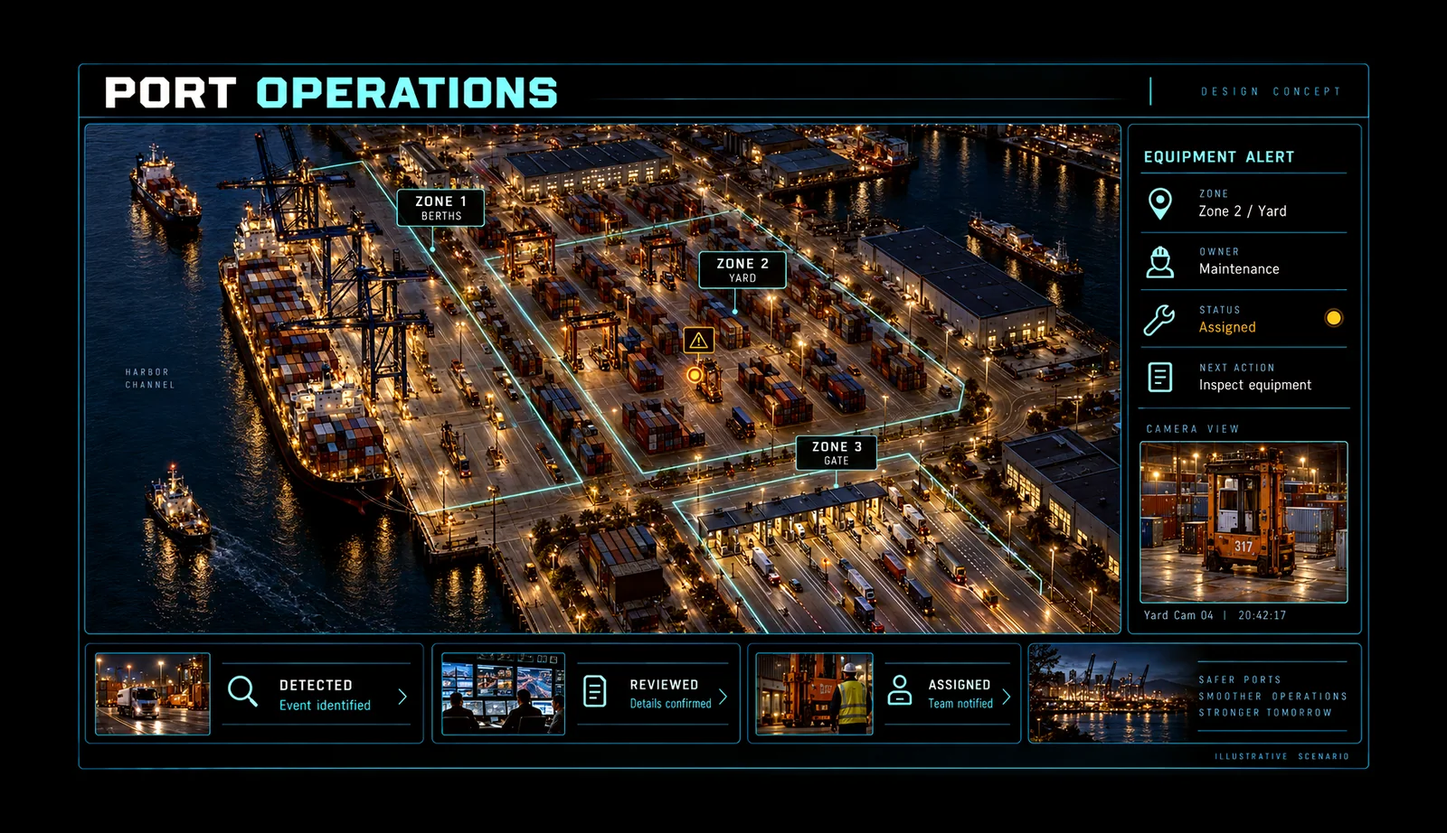
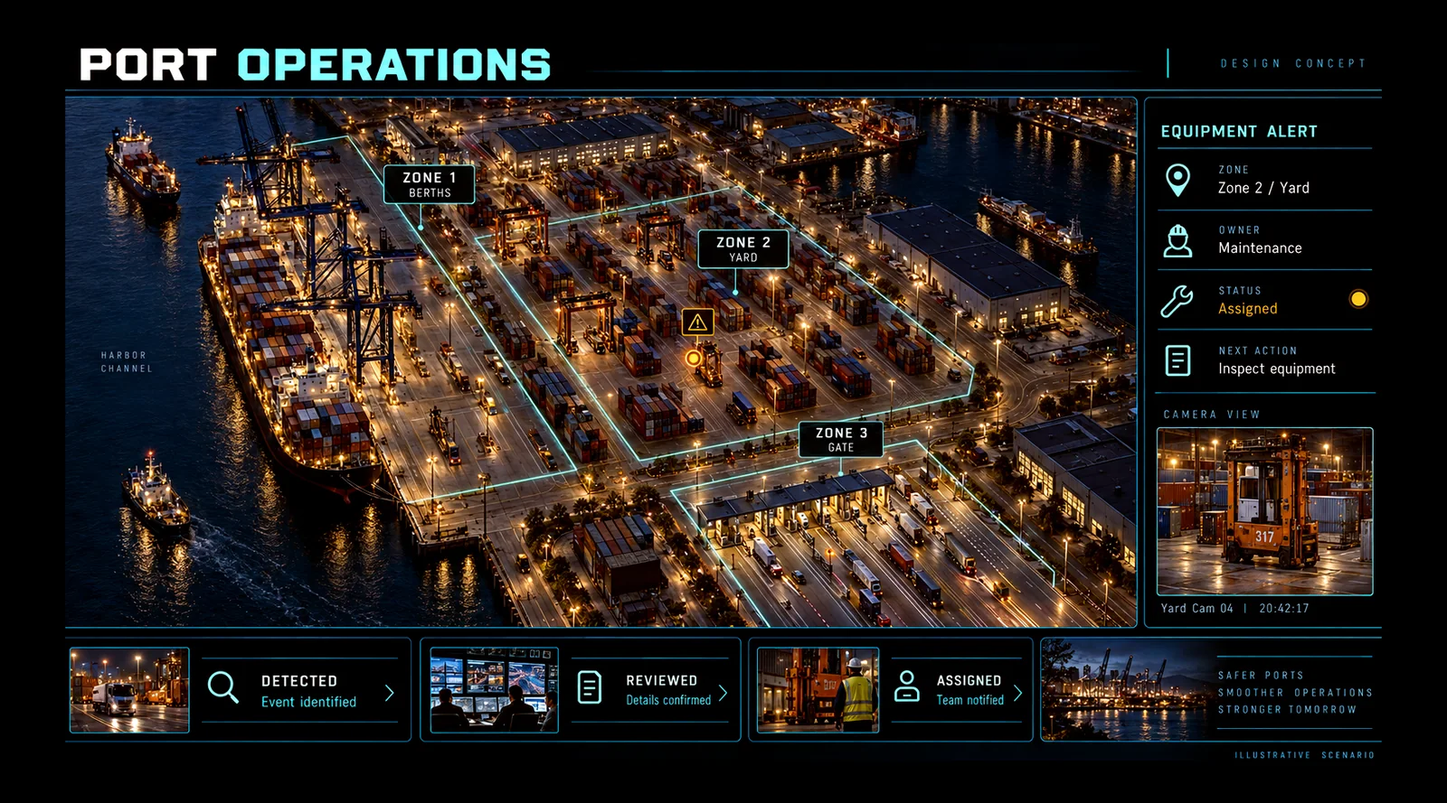
Situational Awareness: crop the screen bezels, deeper feathered blend into the background, hero 20% larger
Claude-Session: https://claude.ai/code/session_01Um7rR1VGA8PdkD5HN66tjn

diff --git a/pages/cc-situational-awareness.html b/pages/cc-situational-awareness.html
@@ -28,7 +28,7 @@
 <link rel="stylesheet" href="../styles-sections.css?v=20260922a">
 <link rel="stylesheet" href="../animations.css?v=20260922a">
 <link rel="stylesheet" href="../megamenu.css?v=20260922a">
-<link rel="stylesheet" href="../styles-situational-awareness.css?v=20260926a">
+<link rel="stylesheet" href="../styles-situational-awareness.css?v=20260927a">
 <link rel="stylesheet" href="_page.css?v=20260922a">
 <link rel="stylesheet" href="_casestudy.css?v=20260922a">
 <script type="application/ld+json">{"@context":"https://schema.org","@graph":[{"@type":"BreadcrumbList","itemListElement":[{"@type":"ListItem","position":1,"name":"Home","item":"https://innovent.io/"},{"@type":"ListItem","position":2,"name":"Command & Control","item":"https://innovent.io/pages/command-control.html"},{"@type":"ListItem","position":3,"name":"Situational Awareness — Command & Control","item":"https://innovent.io/pages/cc-situational-awareness.html"}]},{"@type":"WebPage","@id":"https://innovent.io/pages/cc-situational-awareness.html#page","url":"https://innovent.io/pages/cc-situational-awareness.html","name":"Situational Awareness — Command & Control","description":"Innfini creates a unified geo-temporal operating picture across every real-time data source. Incidents, sensors, cameras, assets.","isPartOf":{"@id":"https://innovent.io/#site"},"publisher":{"@id":"https://innovent.io/#org"}}]}</script>
@@ -70,23 +70,23 @@
         </div>
       </div>
       <div class="sa__motion sa__motion--img" aria-hidden="true">
-        <div class="ci-img ci-img--hero" aria-hidden="true"><div class="ci-img__box" style="--ar:1600 / 922"><img src="../assets/product/cc-sa-hero.webp?v=20260926a" alt="" loading="lazy" decoding="async" width="1600" height="922">
-          <span class="ov ov-ring" style="left:21.48%;top:36.78%;width:2.71%;--c:#fb923c;animation-delay:0s"></span>
-            <span class="ov ov-ring" style="left:21.48%;top:36.78%;width:2.71%;--c:#fb923c;animation-delay:1.3s"></span>
-            <span class="ov ov-glow" style="left:19.31%;top:28.79%;width:10.03%;height:4.23%;animation:g-hero-2 9s ease-in-out infinite"></span>
-            <span class="ov ov-area" style="left:26.36%;top:33.02%;width:10.85%;height:13.17%;--c:#22d3ee"></span>
-            <span class="ov ov-area" style="left:42.62%;top:37.72%;width:11.93%;height:11.29%;--c:#22d3ee"></span>
-            <span class="ov ov-area" style="left:74.08%;top:56.54%;width:10.85%;height:13.17%;--c:#22d3ee"></span>
+        <div class="ci-img ci-img--hero" aria-hidden="true"><div class="ci-img__box" style="--ar:1600 / 891"><img src="../assets/product/cc-sa-hero.webp?v=20260927a" alt="" loading="lazy" decoding="async" width="1600" height="891">
+          <span class="ov ov-ring" style="left:18.62%;top:34.94%;width:2.98%;--c:#fb923c;animation-delay:0s"></span>
+            <span class="ov ov-ring" style="left:18.62%;top:34.94%;width:2.98%;--c:#fb923c;animation-delay:1.3s"></span>
+            <span class="ov ov-glow" style="left:16.23%;top:25.83%;width:11.04%;height:4.82%;animation:g-hero-2 9s ease-in-out infinite"></span>
+            <span class="ov ov-area" style="left:23.99%;top:30.65%;width:11.93%;height:15.01%;--c:#22d3ee"></span>
+            <span class="ov ov-area" style="left:41.89%;top:36.01%;width:13.13%;height:12.86%;--c:#22d3ee"></span>
+            <span class="ov ov-area" style="left:76.49%;top:57.45%;width:11.93%;height:15.01%;--c:#22d3ee"></span>
             <span class="ov ov-pkt" style="--c:#34d399;animation:p-hero-6 9s linear infinite;animation-delay:0s"></span>
             <span class="ov ov-pkt" style="--c:#22d3ee;animation:p-hero-7 9s linear infinite;animation-delay:3s"></span>
-            <span class="ov ov-dot" style="left:91.97%;top:25.96%;--c:#34d399;animation-delay:0s"></span>
-            <span class="ov ov-dot" style="left:91.97%;top:34.15%;--c:#34d399;animation-delay:0.3s"></span>
-            <span class="ov ov-dot" style="left:91.97%;top:42.43%;--c:#34d399;animation-delay:0.6s"></span>
-            <span class="ov ov-dot" style="left:91.97%;top:50.71%;--c:#34d399;animation-delay:0.9s"></span>
-            <span class="ov ov-scan" style="left:6.29%;top:77.23%;width:10.58%;height:11.29%;--T:9s;animation-delay:0s"></span>
-            <span class="ov ov-scan" style="left:32.59%;top:77.23%;width:10.58%;height:11.29%;--T:9s;animation-delay:1.5s"></span>
-            <span class="ov ov-scan" style="left:58.62%;top:77.23%;width:9.49%;height:11.29%;--T:9s;animation-delay:3s"></span>
-            <span class="ov ov-glow" style="left:71.1%;top:78.17%;width:10.57%;height:10.35%;animation:g-hero-15 9s ease-in-out infinite"></span>
+            <span class="ov ov-dot" style="left:96.18%;top:22.62%;--c:#34d399;animation-delay:0s"></span>
+            <span class="ov ov-dot" style="left:96.18%;top:31.94%;--c:#34d399;animation-delay:0.3s"></span>
+            <span class="ov ov-dot" style="left:96.18%;top:41.37%;--c:#34d399;animation-delay:0.6s"></span>
+            <span class="ov ov-dot" style="left:96.18%;top:50.8%;--c:#34d399;animation-delay:0.9s"></span>
+            <span class="ov ov-scan" style="left:1.91%;top:81.03%;width:11.63%;height:12.86%;--T:9s;animation-delay:0s"></span>
+            <span class="ov ov-scan" style="left:30.85%;top:81.03%;width:11.63%;height:12.86%;--T:9s;animation-delay:1.5s"></span>
+            <span class="ov ov-scan" style="left:59.49%;top:81.03%;width:10.44%;height:12.86%;--T:9s;animation-delay:3s"></span>
+            <span class="ov ov-glow" style="left:73.21%;top:82.1%;width:11.63%;height:11.79%;animation:g-hero-15 9s ease-in-out infinite"></span>
         </div></div>
       </div>
     </div>
@@ -99,22 +99,22 @@
     </div>
     <div class="sa-rows">
       <div class="sa-row">
-        <div class="sa-row__vis"><div class="ci-img ci-img--cop" aria-hidden="true"><div class="ci-img__box" style="--ar:1600 / 922"><img src="../assets/product/cc-sa-cop.webp?v=20260926a" alt="" loading="lazy" decoding="async" width="1600" height="922">
-          <span class="ov ov-ring" style="left:23.75%;top:30.39%;width:2.49%;--c:#fb923c;animation-delay:0s"></span>
-            <span class="ov ov-ring" style="left:45.88%;top:48.54%;width:2.49%;--c:#fb923c;animation-delay:0.9s"></span>
-            <span class="ov ov-ring" style="left:66.21%;top:51.36%;width:2.49%;--c:#fb923c;animation-delay:1.8s"></span>
-            <span class="ov ov-area" style="left:20.93%;top:33.02%;width:10.85%;height:11.29%;--c:#22d3ee"></span>
-            <span class="ov ov-area" style="left:42.62%;top:45.25%;width:9.76%;height:9.41%;--c:#22d3ee"></span>
-            <span class="ov ov-area" style="left:62.69%;top:47.13%;width:8.13%;height:9.41%;--c:#22d3ee"></span>
+        <div class="sa-row__vis"><div class="ci-img ci-img--cop" aria-hidden="true"><div class="ci-img__box" style="--ar:1600 / 889"><img src="../assets/product/cc-sa-cop.webp?v=20260927a" alt="" loading="lazy" decoding="async" width="1600" height="889">
+          <span class="ov ov-ring" style="left:22.69%;top:28.83%;width:2.6%;--c:#fb923c;animation-delay:0s"></span>
+            <span class="ov ov-ring" style="left:45.71%;top:48.43%;width:2.6%;--c:#fb923c;animation-delay:0.9s"></span>
+            <span class="ov ov-ring" style="left:66.87%;top:51.47%;width:2.6%;--c:#fb923c;animation-delay:1.8s"></span>
+            <span class="ov ov-area" style="left:19.75%;top:31.68%;width:11.29%;height:12.18%;--c:#22d3ee"></span>
+            <span class="ov ov-area" style="left:42.33%;top:44.87%;width:10.16%;height:10.15%;--c:#22d3ee"></span>
+            <span class="ov ov-area" style="left:63.21%;top:46.9%;width:8.47%;height:10.15%;--c:#22d3ee"></span>
             <span class="ov ov-pkt" style="--c:#34d399;animation:p-cop-6 8s linear infinite;animation-delay:0s"></span>
             <span class="ov ov-pkt" style="--c:#22d3ee;animation:p-cop-7 8s linear infinite;animation-delay:2.5s"></span>
-            <span class="ov ov-glow" style="left:78.15%;top:23.14%;width:15.45%;height:13.17%;animation:g-cop-8 9s ease-in-out infinite"></span>
-            <span class="ov ov-glow" style="left:78.15%;top:37.72%;width:15.45%;height:13.17%;animation:g-cop-9 9s ease-in-out infinite"></span>
-            <span class="ov ov-glow" style="left:78.15%;top:52.3%;width:15.45%;height:13.18%;animation:g-cop-10 9s ease-in-out infinite"></span>
-            <span class="ov ov-flare" style="left:13.34%;top:87.39%;--c:#fcd34d;--i:0;--T:9s"></span>
-            <span class="ov ov-flare" style="left:42.62%;top:87.39%;--c:#fcd34d;--i:1;--T:9s"></span>
-            <span class="ov ov-flare" style="left:71.37%;top:87.39%;--c:#fcd34d;--i:2;--T:9s"></span>
-            <span class="ov ov-ring" style="left:89.97%;top:87.39%;width:2.17%;--c:#22d3ee;animation-delay:0.5s"></span>
+            <span class="ov ov-glow" style="left:79.29%;top:21.02%;width:16.08%;height:14.21%;animation:g-cop-8 9s ease-in-out infinite"></span>
+            <span class="ov ov-glow" style="left:79.29%;top:36.75%;width:16.08%;height:14.21%;animation:g-cop-9 9s ease-in-out infinite"></span>
+            <span class="ov ov-glow" style="left:79.29%;top:52.49%;width:16.08%;height:14.21%;animation:g-cop-10 9s ease-in-out infinite"></span>
+            <span class="ov ov-flare" style="left:11.85%;top:90.36%;--c:#fcd34d;--i:0;--T:9s"></span>
+            <span class="ov ov-flare" style="left:42.33%;top:90.36%;--c:#fcd34d;--i:1;--T:9s"></span>
+            <span class="ov ov-flare" style="left:72.23%;top:90.36%;--c:#fcd34d;--i:2;--T:9s"></span>
+            <span class="ov ov-ring" style="left:91.59%;top:90.36%;width:2.26%;--c:#22d3ee;animation-delay:0.5s"></span>
         </div></div></div>
         <div class="sa-row__copy">
           <div class="sa-row__kicker">01 · Common operating picture</div>
@@ -124,22 +124,22 @@
         </div>
       </div>
       <div class="sa-row sa-row--flip">
-        <div class="sa-row__vis"><div class="ci-img ci-img--response" aria-hidden="true"><div class="ci-img__box" style="--ar:1600 / 922"><img src="../assets/product/cc-sa-response.webp?v=20260926a" alt="" loading="lazy" decoding="async" width="1600" height="922">
-          <span class="ov ov-ring" style="left:24.62%;top:43.56%;width:2.71%;--c:#fb923c;animation-delay:0s"></span>
-            <span class="ov ov-ring" style="left:24.62%;top:43.56%;width:2.71%;--c:#fb923c;animation-delay:1.3s"></span>
-            <span class="ov ov-glow" style="left:19.85%;top:34.71%;width:10.19%;height:4.14%;animation:g-response-2 9s ease-in-out infinite"></span>
-            <span class="ov ov-area" style="left:24.19%;top:45.25%;width:9.76%;height:11.29%;--c:#fb7185"></span>
-            <span class="ov ov-area" style="left:35.03%;top:39.6%;width:8.68%;height:9.41%;--c:#22d3ee"></span>
+        <div class="sa-row__vis"><div class="ci-img ci-img--response" aria-hidden="true"><div class="ci-img__box" style="--ar:1600 / 889"><img src="../assets/product/cc-sa-response.webp?v=20260927a" alt="" loading="lazy" decoding="async" width="1600" height="889">
+          <span class="ov ov-ring" style="left:23.59%;top:43.05%;width:2.82%;--c:#fb923c;animation-delay:0s"></span>
+            <span class="ov ov-ring" style="left:23.59%;top:43.05%;width:2.82%;--c:#fb923c;animation-delay:1.3s"></span>
+            <span class="ov ov-glow" style="left:18.62%;top:33.5%;width:10.61%;height:4.47%;animation:g-response-2 9s ease-in-out infinite"></span>
+            <span class="ov ov-area" style="left:23.14%;top:44.87%;width:10.16%;height:12.18%;--c:#fb7185"></span>
+            <span class="ov ov-area" style="left:34.42%;top:38.78%;width:9.03%;height:10.15%;--c:#22d3ee"></span>
             <span class="ov ov-pkt" style="--c:#34d399;animation:p-response-5 8s linear infinite;animation-delay:0s"></span>
-            <span class="ov ov-ring" style="left:53.74%;top:26.9%;width:2.39%;--c:#22d3ee;animation-delay:0.4s"></span>
-            <span class="ov ov-dot" style="left:92.14%;top:24.55%;--c:#34d399;animation-delay:0s"></span>
-            <span class="ov ov-dot" style="left:92.14%;top:31.23%;--c:#34d399;animation-delay:0.3s"></span>
-            <span class="ov ov-dot" style="left:92.14%;top:37.91%;--c:#34d399;animation-delay:0.6s"></span>
-            <span class="ov ov-dot" style="left:92.14%;top:44.68%;--c:#fcd34d;animation-delay:0.9s"></span>
-            <span class="ov ov-scan" style="left:6.29%;top:78.17%;width:11.12%;height:10.82%;--T:9s;animation-delay:0s"></span>
-            <span class="ov ov-scan" style="left:35.57%;top:78.17%;width:11.12%;height:10.82%;--T:9s;animation-delay:1.5s"></span>
-            <span class="ov ov-scan" style="left:65.13%;top:78.17%;width:11.12%;height:10.82%;--T:9s;animation-delay:3s"></span>
-            <span class="ov ov-glow" style="left:78.15%;top:42.9%;width:15.45%;height:3.76%;animation:g-response-14 9s ease-in-out infinite"></span>
+            <span class="ov ov-ring" style="left:53.89%;top:25.08%;width:2.48%;--c:#22d3ee;animation-delay:0.4s"></span>
+            <span class="ov ov-dot" style="left:93.85%;top:22.54%;--c:#34d399;animation-delay:0s"></span>
+            <span class="ov ov-dot" style="left:93.85%;top:29.75%;--c:#34d399;animation-delay:0.3s"></span>
+            <span class="ov ov-dot" style="left:93.85%;top:36.95%;--c:#34d399;animation-delay:0.6s"></span>
+            <span class="ov ov-dot" style="left:93.85%;top:44.26%;--c:#fcd34d;animation-delay:0.9s"></span>
+            <span class="ov ov-scan" style="left:4.51%;top:80.41%;width:11.57%;height:11.67%;--T:9s;animation-delay:0s"></span>
+            <span class="ov ov-scan" style="left:34.99%;top:80.41%;width:11.57%;height:11.67%;--T:9s;animation-delay:1.5s"></span>
+            <span class="ov ov-scan" style="left:65.74%;top:80.41%;width:11.57%;height:11.67%;--T:9s;animation-delay:3s"></span>
+            <span class="ov ov-glow" style="left:79.29%;top:42.34%;width:16.08%;height:4.06%;animation:g-response-14 9s ease-in-out infinite"></span>
         </div></div></div>
         <div class="sa-row__copy">
           <div class="sa-row__kicker">02 · Coordinated response</div>
@@ -149,22 +149,22 @@
         </div>
       </div>
       <div class="sa-row">
-        <div class="sa-row__vis"><div class="ci-img ci-img--playback" aria-hidden="true"><div class="ci-img__box" style="--ar:1600 / 922"><img src="../assets/product/cc-sa-playback.webp?v=20260926a" alt="" loading="lazy" decoding="async" width="1600" height="922">
-          <span class="ov ov-ring" style="left:19.31%;top:39.79%;width:2.49%;--c:#fb923c;animation-delay:0s"></span>
-            <span class="ov ov-ring" style="left:19.31%;top:39.79%;width:2.49%;--c:#fb923c;animation-delay:1.3s"></span>
-            <span class="ov ov-glow" style="left:16.05%;top:33.96%;width:7.87%;height:2.82%;animation:g-playback-2 12s ease-in-out infinite"></span>
-            <span class="ov ov-ring" style="left:48.59%;top:39.79%;width:2.49%;--c:#fb923c;animation-delay:3.5s"></span>
+        <div class="sa-row__vis"><div class="ci-img ci-img--playback" aria-hidden="true"><div class="ci-img__box" style="--ar:1600 / 889"><img src="../assets/product/cc-sa-playback.webp?v=20260927a" alt="" loading="lazy" decoding="async" width="1600" height="889">
+          <span class="ov ov-ring" style="left:18.06%;top:38.98%;width:2.6%;--c:#fb923c;animation-delay:0s"></span>
+            <span class="ov ov-ring" style="left:18.06%;top:38.98%;width:2.6%;--c:#fb923c;animation-delay:1.3s"></span>
+            <span class="ov ov-glow" style="left:14.67%;top:32.69%;width:8.19%;height:3.05%;animation:g-playback-2 12s ease-in-out infinite"></span>
+            <span class="ov ov-ring" style="left:48.53%;top:38.98%;width:2.6%;--c:#fb923c;animation-delay:3.5s"></span>
             <span class="ov ov-pkt" style="--c:#34d399;animation:p-playback-4 12s linear infinite;animation-delay:4s"></span>
-            <span class="ov ov-ring" style="left:77.87%;top:39.79%;width:2.49%;--c:#34d399;animation-delay:8s"></span>
-            <span class="ov ov-glow" style="left:5.75%;top:17.03%;width:28.47%;height:2.82%;animation:g-playback-6 12s ease-in-out infinite"></span>
-            <span class="ov ov-glow" style="left:35.03%;top:17.03%;width:28.2%;height:2.82%;animation:g-playback-7 12s ease-in-out infinite"></span>
-            <span class="ov ov-glow" style="left:64.05%;top:17.03%;width:29.55%;height:2.82%;animation:g-playback-8 12s ease-in-out infinite"></span>
-            <span class="ov ov-flare" style="left:10.09%;top:80.71%;--c:#fcd34d;--i:0;--T:12s"></span>
-            <span class="ov ov-flare" style="left:36.01%;top:80.71%;--c:#22d3ee;--i:1;--T:12s"></span>
-            <span class="ov ov-flare" style="left:61.88%;top:80.71%;--c:#34d399;--i:2;--T:12s"></span>
-            <span class="ov ov-runx" style="top:80.71%;--c:#22d3ee;animation:x-playback-12 12s linear infinite"></span>
-            <span class="ov ov-scan" style="left:67.57%;top:77.05%;width:12.2%;height:11.0%;--T:12s;animation-delay:4s"></span>
-            <span class="ov ov-glow" style="left:80.59%;top:81.0%;width:13.01%;height:4.7%;animation:g-playback-14 12s ease-in-out infinite"></span>
+            <span class="ov ov-ring" style="left:79.01%;top:38.98%;width:2.6%;--c:#34d399;animation-delay:8s"></span>
+            <span class="ov ov-glow" style="left:3.95%;top:14.42%;width:29.63%;height:3.04%;animation:g-playback-6 12s ease-in-out infinite"></span>
+            <span class="ov ov-glow" style="left:34.42%;top:14.42%;width:29.35%;height:3.04%;animation:g-playback-7 12s ease-in-out infinite"></span>
+            <span class="ov ov-glow" style="left:64.62%;top:14.42%;width:30.75%;height:3.04%;animation:g-playback-8 12s ease-in-out infinite"></span>
+            <span class="ov ov-flare" style="left:8.47%;top:83.15%;--c:#fcd34d;--i:0;--T:12s"></span>
+            <span class="ov ov-flare" style="left:35.44%;top:83.15%;--c:#22d3ee;--i:1;--T:12s"></span>
+            <span class="ov ov-flare" style="left:62.36%;top:83.15%;--c:#34d399;--i:2;--T:12s"></span>
+            <span class="ov ov-runx" style="top:83.15%;--c:#22d3ee;animation:x-playback-12 12s linear infinite"></span>
+            <span class="ov ov-scan" style="left:68.28%;top:79.19%;width:12.7%;height:11.88%;--T:12s;animation-delay:4s"></span>
+            <span class="ov ov-glow" style="left:81.83%;top:83.45%;width:13.54%;height:5.08%;animation:g-playback-14 12s ease-in-out infinite"></span>
         </div></div></div>
         <div class="sa-row__copy">
           <div class="sa-row__kicker">03 · Event playback</div>
@@ -174,20 +174,20 @@
         </div>
       </div>
       <div class="sa-row sa-row--flip">
-        <div class="sa-row__vis"><div class="ci-img ci-img--port" aria-hidden="true"><div class="ci-img__box" style="--ar:1600 / 922"><img src="../assets/product/cc-sa-port.webp?v=20260926a" alt="" loading="lazy" decoding="async" width="1600" height="922">
-          <span class="ov ov-ring" style="left:48.05%;top:45.25%;width:2.6%;--c:#fb923c;animation-delay:0s"></span>
-            <span class="ov ov-ring" style="left:48.05%;top:45.25%;width:2.6%;--c:#fb923c;animation-delay:1.3s"></span>
-            <span class="ov ov-glow" style="left:46.96%;top:39.13%;width:2.44%;height:3.3%;animation:g-port-2 9s ease-in-out infinite"></span>
-            <span class="ov ov-area" style="left:45.88%;top:47.13%;width:8.68%;height:11.29%;--c:#fcd34d"></span>
+        <div class="sa-row__vis"><div class="ci-img ci-img--port" aria-hidden="true"><div class="ci-img__box" style="--ar:1600 / 889"><img src="../assets/product/cc-sa-port.webp?v=20260927a" alt="" loading="lazy" decoding="async" width="1600" height="889">
+          <span class="ov ov-ring" style="left:47.97%;top:44.87%;width:2.71%;--c:#fb923c;animation-delay:0s"></span>
+            <span class="ov ov-ring" style="left:47.97%;top:44.87%;width:2.71%;--c:#fb923c;animation-delay:1.3s"></span>
+            <span class="ov ov-glow" style="left:46.84%;top:38.27%;width:2.54%;height:3.56%;animation:g-port-2 9s ease-in-out infinite"></span>
+            <span class="ov ov-area" style="left:45.71%;top:46.9%;width:9.03%;height:12.18%;--c:#fcd34d"></span>
             <span class="ov ov-pkt" style="--c:#22d3ee;animation:p-port-4 9s linear infinite;animation-delay:0s"></span>
             <span class="ov ov-pkt" style="--c:#22d3ee;animation:p-port-5 9s linear infinite;animation-delay:2.5s"></span>
             <span class="ov ov-pkt" style="--c:#22d3ee;animation:p-port-6 9s linear infinite;animation-delay:4.5s"></span>
-            <span class="ov ov-dot" style="left:91.97%;top:38.19%;--c:#fcd34d;animation-delay:0s"></span>
-            <span class="ov ov-scan" style="left:78.96%;top:53.25%;width:14.1%;height:19.28%;--T:9s;animation-delay:1s"></span>
-            <span class="ov ov-scan" style="left:6.29%;top:78.17%;width:8.68%;height:9.88%;--T:9s;animation-delay:0s"></span>
-            <span class="ov ov-scan" style="left:30.15%;top:78.17%;width:8.95%;height:9.88%;--T:9s;animation-delay:1.5s"></span>
-            <span class="ov ov-scan" style="left:51.84%;top:78.17%;width:8.68%;height:9.88%;--T:9s;animation-delay:3s"></span>
-            <span class="ov ov-glow" style="left:71.37%;top:78.17%;width:22.23%;height:10.35%;animation:g-port-12 9s ease-in-out infinite"></span>
+            <span class="ov ov-dot" style="left:93.68%;top:37.26%;--c:#fcd34d;animation-delay:0s"></span>
+            <span class="ov ov-scan" style="left:80.14%;top:53.5%;width:14.67%;height:20.81%;--T:9s;animation-delay:1s"></span>
+            <span class="ov ov-scan" style="left:4.51%;top:80.41%;width:9.03%;height:10.66%;--T:9s;animation-delay:0s"></span>
+            <span class="ov ov-scan" style="left:29.35%;top:80.41%;width:9.31%;height:10.66%;--T:9s;animation-delay:1.5s"></span>
+            <span class="ov ov-scan" style="left:51.92%;top:80.41%;width:9.03%;height:10.66%;--T:9s;animation-delay:3s"></span>
+            <span class="ov ov-glow" style="left:72.23%;top:80.41%;width:23.14%;height:11.16%;animation:g-port-12 9s ease-in-out infinite"></span>
         </div></div></div>
         <div class="sa-row__copy">
           <div class="sa-row__kicker">04 · Port operations</div>

diff --git a/styles-situational-awareness.css b/styles-situational-awareness.css
@@ -7,7 +7,7 @@
 .sa .container { position: relative; z-index: 1; }
 
 /* Hero */
-.sa__hero { display: grid; grid-template-columns: 1fr 1.2fr; gap: 56px; align-items: center; margin-bottom: 96px; }
+.sa__hero { display: grid; grid-template-columns: 1fr 1.32fr; gap: 44px; align-items: center; margin-bottom: 96px; }
 .sa__copy h2.sa__title, .sa__copy h1.sa__title{ font-family: var(--font-display); font-size: clamp(36px, 4.2vw, 56px); line-height: 1.04; letter-spacing: -0.025em; color: var(--ink-100); margin: 18px 0 22px; }
 .sa__lead { font-size: 17px; line-height: 1.6; color: var(--ink-70); max-width: 560px; margin-bottom: 32px; }
 .sa__lead strong { color: var(--ink-100); font-weight: 600; }
@@ -160,13 +160,19 @@
 
 /* ── Product images (keyed + feathered) with live overlays ── */
 .sa__motion--img { padding: 0; display: flex; align-items: center; }
+.sa__motion--img .ci-img { justify-content: flex-end; }
+.sa__motion--img .ci-img__box { max-width: none; width: 108%; margin-right: -6%; }
+@media (max-width: 1100px) { .sa__motion--img .ci-img__box { width: 100%; margin-right: 0; } }
+@media (max-width: 980px) { .sa__motion--img .ci-img__box { max-width: 720px; margin: 0 auto; } }
 .ci-img { display: flex; align-items: center; justify-content: center; padding: 0; min-height: 0; width: 100%; }
 .ci-img__box { position: relative; width: 100%; max-width: 720px; aspect-ratio: var(--ar, 16 / 9); }
-.ci-img__box img { display: block; width: 100%; height: 100%; object-fit: cover; mix-blend-mode: lighten; filter: saturate(0.96) contrast(1.02);
-  -webkit-mask-image: linear-gradient(to right, transparent, rgba(0,0,0,0.3) 3%, #000 9%, #000 91%, rgba(0,0,0,0.3) 97%, transparent),
-                      linear-gradient(to bottom, transparent, rgba(0,0,0,0.3) 4%, #000 11%, #000 89%, rgba(0,0,0,0.3) 96%, transparent);
-          mask-image: linear-gradient(to right, transparent, rgba(0,0,0,0.3) 3%, #000 9%, #000 91%, rgba(0,0,0,0.3) 97%, transparent),
-                      linear-gradient(to bottom, transparent, rgba(0,0,0,0.3) 4%, #000 11%, #000 89%, rgba(0,0,0,0.3) 96%, transparent);
+.ci-img__box img { display: block; width: 100%; height: 100%; object-fit: cover; mix-blend-mode: lighten; filter: saturate(0.94) contrast(1.03);
+  -webkit-mask-image: linear-gradient(to right, transparent, rgba(0,0,0,0.22) 4%, #000 13%, #000 87%, rgba(0,0,0,0.22) 96%, transparent),
+                      linear-gradient(to bottom, transparent, rgba(0,0,0,0.22) 5%, #000 15%, #000 85%, rgba(0,0,0,0.22) 95%, transparent),
+                      radial-gradient(ellipse 78% 78% at 50% 50%, #000 55%, rgba(0,0,0,0.55) 82%, rgba(0,0,0,0.18) 100%);
+          mask-image: linear-gradient(to right, transparent, rgba(0,0,0,0.22) 4%, #000 13%, #000 87%, rgba(0,0,0,0.22) 96%, transparent),
+                      linear-gradient(to bottom, transparent, rgba(0,0,0,0.22) 5%, #000 15%, #000 85%, rgba(0,0,0,0.22) 95%, transparent),
+                      radial-gradient(ellipse 78% 78% at 50% 50%, #000 55%, rgba(0,0,0,0.55) 82%, rgba(0,0,0,0.18) 100%);
   -webkit-mask-composite: source-in; mask-composite: intersect; }
 .ci-img__box .ov { position: absolute; display: block; pointer-events: none; mix-blend-mode: screen; }
 .ov-dot { width: 1.6%; aspect-ratio: 1; border-radius: 50%; transform: translate(-50%,-50%); background: radial-gradient(circle, color-mix(in srgb, var(--c) 95%, transparent), transparent 70%); animation: ovDot 2.2s ease-in-out infinite; }
@@ -202,26 +208,26 @@
 }
 @media (prefers-reduced-motion: reduce) { .ci-img__box .ov { animation: none !important; opacity: .5; } .ov-pkt, .ov-ring, .ov-run, .ov-runx, .ov-row, .ov-flare, .ov-scan { display: none; } }
 @keyframes g-hero-2{0%,1.3%{box-shadow:0 0 0 0 transparent}7.3%{box-shadow:0 0 22px 3px color-mix(in srgb,#fcd34d 60%,transparent),inset 0 0 14px color-mix(in srgb,#fcd34d 30%,transparent)}15.3%,100%{box-shadow:0 0 0 0 transparent}}
-@keyframes p-hero-6{0%{left:35.03%;top:74.41%;opacity:0}4%{opacity:1}18.0%{left:48.05%;top:62.18%}32.0%{left:50.22%;top:53.72%}46.0%{left:59.44%;top:50.89%}60.0%{left:63.77%;top:60.3%}74.0%{left:70.28%;top:67.83%}88.0%{left:71.91%;top:70.65%}92%,100%{left:71.91%;top:70.65%;opacity:0}}
-@keyframes p-hero-7{0%{left:67.03%;top:66.89%;opacity:0}4%{opacity:1}46.0%{left:64.32%;top:54.66%}88.0%{left:58.89%;top:49.95%}92%,100%{left:58.89%;top:49.95%;opacity:0}}
+@keyframes p-hero-6{0%{left:33.53%;top:77.81%;opacity:0}4%{opacity:1}18.0%{left:47.85%;top:63.88%}32.0%{left:50.24%;top:54.23%}46.0%{left:60.38%;top:51.02%}60.0%{left:65.16%;top:61.74%}74.0%{left:72.32%;top:70.31%}88.0%{left:74.11%;top:73.53%}92%,100%{left:74.11%;top:73.53%;opacity:0}}
+@keyframes p-hero-7{0%{left:68.74%;top:69.24%;opacity:0}4%{opacity:1}46.0%{left:65.75%;top:55.31%}88.0%{left:59.79%;top:49.95%}92%,100%{left:59.79%;top:49.95%;opacity:0}}
 @keyframes g-hero-15{0%,53.6%{box-shadow:0 0 0 0 transparent}59.6%{box-shadow:0 0 22px 3px color-mix(in srgb,#34d399 60%,transparent),inset 0 0 14px color-mix(in srgb,#34d399 30%,transparent)}67.6%,100%{box-shadow:0 0 0 0 transparent}}
-@keyframes p-cop-6{0%{left:32.86%;top:73.47%;opacity:0}4%{opacity:1}25.0%{left:39.91%;top:65.95%}46.0%{left:48.05%;top:54.66%}67.0%{left:54.56%;top:46.19%}88.0%{left:58.89%;top:42.43%}92%,100%{left:58.89%;top:42.43%;opacity:0}}
-@keyframes p-cop-7{0%{left:67.03%;top:33.96%;opacity:0}4%{opacity:1}46.0%{left:68.66%;top:43.37%}88.0%{left:67.57%;top:49.95%}92%,100%{left:67.57%;top:49.95%;opacity:0}}
+@keyframes p-cop-6{0%{left:32.17%;top:75.33%;opacity:0}4%{opacity:1}25.0%{left:39.5%;top:67.21%}46.0%{left:47.97%;top:55.03%}67.0%{left:54.74%;top:45.89%}88.0%{left:59.26%;top:41.83%}92%,100%{left:59.26%;top:41.83%;opacity:0}}
+@keyframes p-cop-7{0%{left:67.72%;top:32.69%;opacity:0}4%{opacity:1}46.0%{left:69.41%;top:42.84%}88.0%{left:68.28%;top:49.95%}92%,100%{left:68.28%;top:49.95%;opacity:0}}
 @keyframes g-cop-8{0%,9.1%{box-shadow:0 0 0 0 transparent}15.1%{box-shadow:0 0 22px 3px color-mix(in srgb,#fcd34d 60%,transparent),inset 0 0 14px color-mix(in srgb,#fcd34d 30%,transparent)}23.1%,100%{box-shadow:0 0 0 0 transparent}}
 @keyframes g-cop-9{0%,42.4%{box-shadow:0 0 0 0 transparent}48.4%{box-shadow:0 0 22px 3px color-mix(in srgb,#fcd34d 60%,transparent),inset 0 0 14px color-mix(in srgb,#fcd34d 30%,transparent)}56.4%,100%{box-shadow:0 0 0 0 transparent}}
 @keyframes g-cop-10{0%,75.8%{box-shadow:0 0 0 0 transparent}81.8%{box-shadow:0 0 22px 3px color-mix(in srgb,#fcd34d 60%,transparent),inset 0 0 14px color-mix(in srgb,#fcd34d 30%,transparent)}89.8%,100%{box-shadow:0 0 0 0 transparent}}
 @keyframes g-response-2{0%,1.3%{box-shadow:0 0 0 0 transparent}7.3%{box-shadow:0 0 22px 3px color-mix(in srgb,#fcd34d 60%,transparent),inset 0 0 14px color-mix(in srgb,#fcd34d 30%,transparent)}15.3%,100%{box-shadow:0 0 0 0 transparent}}
-@keyframes p-response-5{0%{left:53.74%;top:26.9%;opacity:0}4%{opacity:1}20.8%{left:53.74%;top:33.02%}37.6%{left:46.96%;top:33.96%}54.4%{left:45.88%;top:39.6%}71.2%{left:49.13%;top:49.01%}88.0%{left:59.98%;top:49.95%}92%,100%{left:59.98%;top:49.95%;opacity:0}}
+@keyframes p-response-5{0%{left:53.89%;top:25.08%;opacity:0}4%{opacity:1}20.8%{left:53.89%;top:31.68%}37.6%{left:46.84%;top:32.69%}54.4%{left:45.71%;top:38.78%}71.2%{left:49.1%;top:48.93%}88.0%{left:60.38%;top:49.95%}92%,100%{left:60.38%;top:49.95%;opacity:0}}
 @keyframes g-response-14{0%,53.6%{box-shadow:0 0 0 0 transparent}59.6%{box-shadow:0 0 22px 3px color-mix(in srgb,#fcd34d 60%,transparent),inset 0 0 14px color-mix(in srgb,#fcd34d 30%,transparent)}67.6%,100%{box-shadow:0 0 0 0 transparent}}
 @keyframes g-playback-2{0%,0.5%{box-shadow:0 0 0 0 transparent}6.5%{box-shadow:0 0 22px 3px color-mix(in srgb,#fcd34d 60%,transparent),inset 0 0 14px color-mix(in srgb,#fcd34d 30%,transparent)}14.5%,100%{box-shadow:0 0 0 0 transparent}}
-@keyframes p-playback-4{0%{left:48.59%;top:39.79%;opacity:0}4%{opacity:1}25.0%{left:51.84%;top:43.37%}46.0%{left:56.18%;top:48.07%}67.0%{left:58.89%;top:52.78%}88.0%{left:62.69%;top:56.54%}92%,100%{left:62.69%;top:56.54%;opacity:0}}
+@keyframes p-playback-4{0%{left:48.53%;top:38.98%;opacity:0}4%{opacity:1}25.0%{left:51.92%;top:42.84%}46.0%{left:56.43%;top:47.92%}67.0%{left:59.26%;top:52.99%}88.0%{left:63.21%;top:57.06%}92%,100%{left:63.21%;top:57.06%;opacity:0}}
 @keyframes g-playback-6{0%,0.0%{box-shadow:0 0 0 0 transparent}4.0%{box-shadow:0 0 22px 3px color-mix(in srgb,#fcd34d 60%,transparent),inset 0 0 14px color-mix(in srgb,#fcd34d 30%,transparent)}12.0%,100%{box-shadow:0 0 0 0 transparent}}
 @keyframes g-playback-7{0%,31.3%{box-shadow:0 0 0 0 transparent}37.3%{box-shadow:0 0 22px 3px color-mix(in srgb,#22d3ee 60%,transparent),inset 0 0 14px color-mix(in srgb,#22d3ee 30%,transparent)}45.3%,100%{box-shadow:0 0 0 0 transparent}}
 @keyframes g-playback-8{0%,64.7%{box-shadow:0 0 0 0 transparent}70.7%{box-shadow:0 0 22px 3px color-mix(in srgb,#34d399 60%,transparent),inset 0 0 14px color-mix(in srgb,#34d399 30%,transparent)}78.7%,100%{box-shadow:0 0 0 0 transparent}}
-@keyframes x-playback-12{0%{left:10.09%;opacity:0}4%{opacity:1}86%{left:61.88%;opacity:1}92%,100%{left:61.88%;opacity:0}}
+@keyframes x-playback-12{0%{left:8.47%;opacity:0}4%{opacity:1}86%{left:62.36%;opacity:1}92%,100%{left:62.36%;opacity:0}}
 @keyframes g-playback-14{0%,35.5%{box-shadow:0 0 0 0 transparent}41.5%{box-shadow:0 0 22px 3px color-mix(in srgb,#22d3ee 60%,transparent),inset 0 0 14px color-mix(in srgb,#22d3ee 30%,transparent)}49.5%,100%{box-shadow:0 0 0 0 transparent}}
 @keyframes g-port-2{0%,1.3%{box-shadow:0 0 0 0 transparent}7.3%{box-shadow:0 0 22px 3px color-mix(in srgb,#fcd34d 60%,transparent),inset 0 0 14px color-mix(in srgb,#fcd34d 30%,transparent)}15.3%,100%{box-shadow:0 0 0 0 transparent}}
-@keyframes p-port-4{0%{left:24.19%;top:20.79%;opacity:0}4%{opacity:1}32.0%{left:35.03%;top:31.14%}60.0%{left:42.62%;top:37.72%}88.0%{left:45.88%;top:43.37%}92%,100%{left:45.88%;top:43.37%;opacity:0}}
-@keyframes p-port-5{0%{left:67.03%;top:45.25%;opacity:0}4%{opacity:1}32.0%{left:61.61%;top:49.01%}60.0%{left:53.47%;top:50.89%}88.0%{left:49.67%;top:47.13%}92%,100%{left:49.67%;top:47.13%;opacity:0}}
-@keyframes p-port-6{0%{left:46.96%;top:64.06%;opacity:0}4%{opacity:1}32.0%{left:53.47%;top:61.24%}60.0%{left:59.44%;top:65.95%}88.0%{left:69.74%;top:71.59%}92%,100%{left:69.74%;top:71.59%;opacity:0}}
+@keyframes p-port-4{0%{left:23.14%;top:18.48%;opacity:0}4%{opacity:1}32.0%{left:34.42%;top:29.64%}60.0%{left:42.33%;top:36.75%}88.0%{left:45.71%;top:42.84%}92%,100%{left:45.71%;top:42.84%;opacity:0}}
+@keyframes p-port-5{0%{left:67.72%;top:44.87%;opacity:0}4%{opacity:1}32.0%{left:62.08%;top:48.93%}60.0%{left:53.61%;top:50.96%}88.0%{left:49.66%;top:46.9%}92%,100%{left:49.66%;top:46.9%;opacity:0}}
+@keyframes p-port-6{0%{left:46.84%;top:65.18%;opacity:0}4%{opacity:1}32.0%{left:53.61%;top:62.13%}60.0%{left:59.82%;top:67.21%}88.0%{left:70.54%;top:73.3%}92%,100%{left:70.54%;top:73.3%;opacity:0}}
 @keyframes g-port-12{0%,53.6%{box-shadow:0 0 0 0 transparent}59.6%{box-shadow:0 0 22px 3px color-mix(in srgb,#22d3ee 60%,transparent),inset 0 0 14px color-mix(in srgb,#22d3ee 30%,transparent)}67.6%,100%{box-shadow:0 0 0 0 transparent}}
